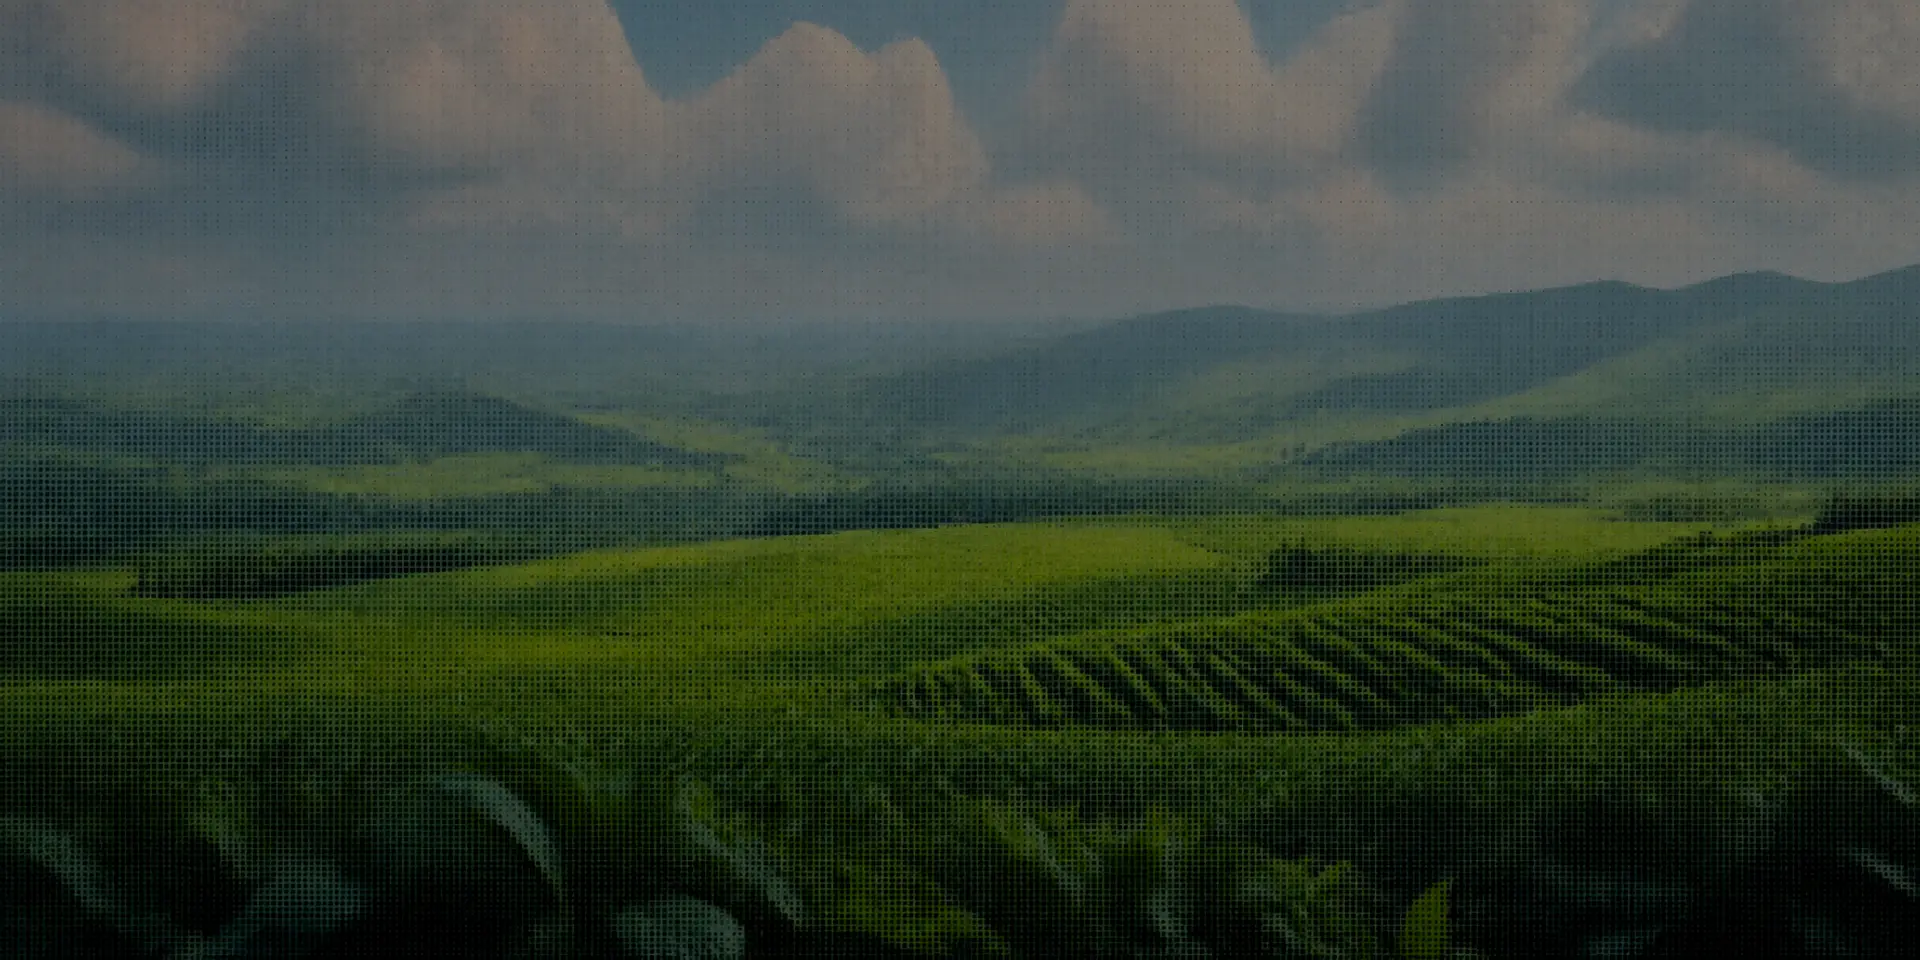
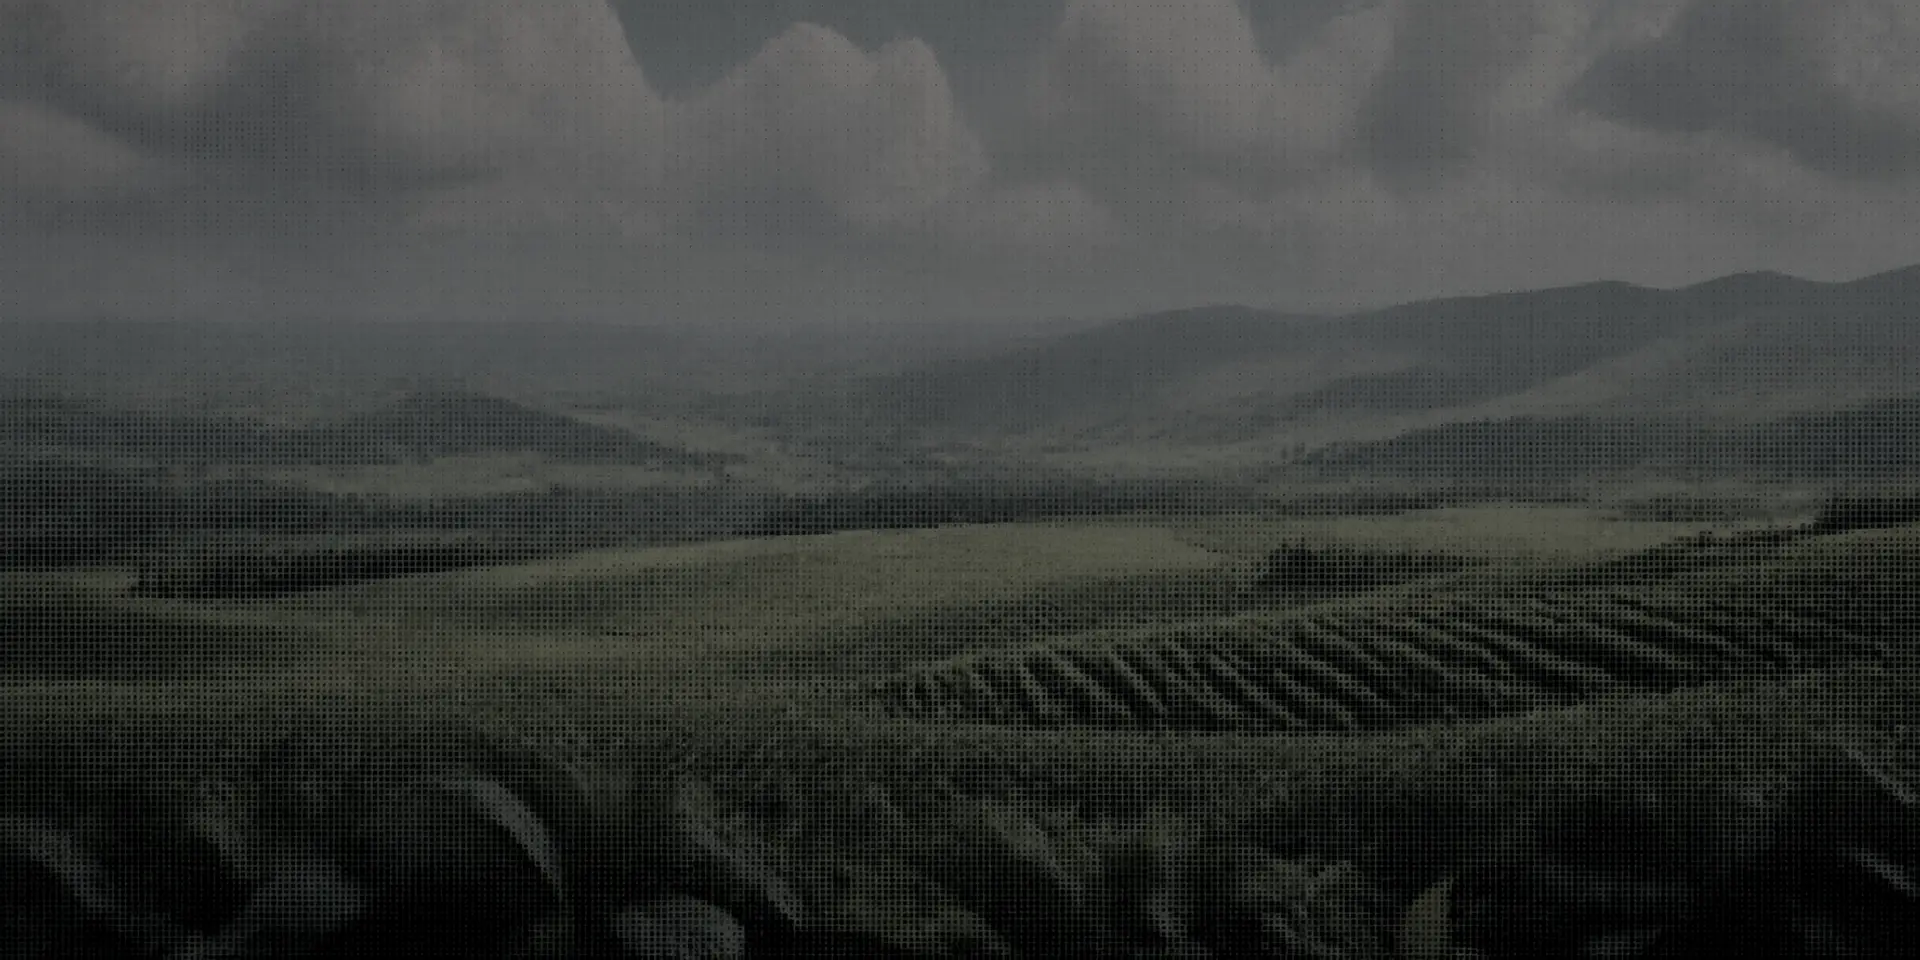
Darker, lower-contrast dApp with green as the accent
- Backdrop overlay drops from 0.82/0.88/0.95 to 0.62/0.72/0.86 and the
  landscape is desaturated to near-monochrome, so it reads as texture rather
  than as a picture.
- Adds an .app-scope layer: card surfaces move off green onto near-black and
  turn slightly translucent, so the backdrop shows through the interface.
- Green stops being a surface colour and becomes the accent — card hover,
  nav hover, active pills, sliders, and section headings.
- Every white-on-black pill in the dApp softens to a green-tinted one; body
  copy steps back a notch across the pages.

The marketing site keeps its original treatment; all of this is scoped.

diff --git a/components/dapp/CreatePodForm.tsx b/components/dapp/CreatePodForm.tsx
@@ -131,7 +131,7 @@ export function CreatePodForm() {
                   onClick={() => switchMode(id)}
                   className={`rounded-full px-5 py-2.5 text-sm font-bold transition-colors ${
                     mode === id
-                      ? "bg-white text-[#040703]"
+                      ? "app-nav-active"
                       : "border-line border text-white/45 hover:text-white"
                   }`}
                 >
@@ -203,7 +203,7 @@ export function CreatePodForm() {
                         onChange={(e) =>
                           setWeights((w) => ({ ...w, [c.symbol]: Number(e.target.value) }))
                         }
-                        className="flex-1 accent-white"
+                        className="accent-lime flex-1"
                       />
                       <span className="tnum w-12 shrink-0 text-right text-xs font-extrabold">
                         {c.pct.toFixed(1)}%
@@ -230,7 +230,7 @@ export function CreatePodForm() {
                         onClick={() => setRebalance(r)}
                         className={`rounded-full px-3.5 py-2 text-xs font-bold transition-colors ${
                           rebalance === r
-                            ? "bg-white text-[#040703]"
+                            ? "app-nav-active"
                             : "border-line border text-white/45 hover:text-white"
                         }`}
                       >
@@ -253,7 +253,7 @@ export function CreatePodForm() {
                   key={p}
                   className={`rounded-full px-4 py-2.5 text-sm font-bold transition-colors ${
                     p === "USDG"
-                      ? "bg-white text-[#040703]"
+                      ? "app-nav-active"
                       : "border-line border text-white/45 hover:text-white"
                   }`}
                 >
@@ -272,7 +272,7 @@ export function CreatePodForm() {
                 step={0.05}
                 value={wrapFee}
                 onChange={(e) => setWrapFee(Number(e.target.value))}
-                className="w-full accent-white"
+                className="accent-lime w-full"
               />
             </Field>
             <Field label={`Unwrap fee — ${unwrapFee.toFixed(2)}%`}>
@@ -283,7 +283,7 @@ export function CreatePodForm() {
                 step={0.05}
                 value={unwrapFee}
                 onChange={(e) => setUnwrapFee(Number(e.target.value))}
-                className="w-full accent-white"
+                className="accent-lime w-full"
               />
             </Field>
             <Field label={`AMM fee — ${ammFee.toFixed(2)}%`}>
@@ -294,7 +294,7 @@ export function CreatePodForm() {
                 step={0.05}
                 value={ammFee}
                 onChange={(e) => setAmmFee(Number(e.target.value))}
-                className="w-full accent-white"
+                className="accent-lime w-full"
               />
             </Field>
             <Field label={`Burn share — ${burnShare}%`}>
@@ -305,7 +305,7 @@ export function CreatePodForm() {
                 step={5}
                 value={burnShare}
                 onChange={(e) => setBurnShare(Number(e.target.value))}
-                className="w-full accent-white"
+                className="accent-lime w-full"
               />
             </Field>
           </div>
@@ -341,7 +341,7 @@ export function CreatePodForm() {
               value={gapPremium}
               disabled={!closes}
               onChange={(e) => setGapPremium(Number(e.target.value))}
-              className="mt-4 w-full accent-white disabled:opacity-30"
+              className="accent-lime mt-4 w-full disabled:opacity-30"
             />
           </div>
 

diff --git a/components/dapp/AppShell.tsx b/components/dapp/AppShell.tsx
@@ -45,8 +45,8 @@ export function AppShell({ children }: { children: ReactNode }) {
     href === "/app" ? pathname === "/app" : pathname.startsWith(href);
 
   return (
-    <div className="flex min-h-svh flex-col">
-      <header className="border-line/70 sticky top-0 z-50 border-b bg-[#040703]/70 backdrop-blur-xl">
+    <div className="app-scope flex min-h-svh flex-col">
+      <header className="border-line/70 sticky top-0 z-50 border-b bg-[#040703]/55 backdrop-blur-xl">
         <div className="mx-auto flex h-16 max-w-[1400px] items-center justify-between gap-4 px-5 sm:px-8">
           <div className="flex items-center gap-7">
             <Link href="/" aria-label="Back to the site">
@@ -59,8 +59,8 @@ export function AppShell({ children }: { children: ReactNode }) {
                   href={n.href}
                   className={`flex items-center gap-2 rounded-full px-3.5 py-2 text-sm font-semibold transition-colors ${
                     isActive(n.href)
-                      ? "bg-white text-[#040703]"
-                      : "text-white/55 hover:bg-[#12290d] hover:text-white"
+                      ? "app-nav-active"
+                      : "hover:text-lime text-white/45 hover:bg-[#12290d]/60"
                   }`}
                 >
                   <NavIcon name={n.icon} />
@@ -71,8 +71,8 @@ export function AppShell({ children }: { children: ReactNode }) {
           </div>
 
           <div className="flex items-center gap-2.5">
-            <span className="border-line hidden items-center gap-2 rounded-full border px-3.5 py-2 text-xs font-semibold text-white/60 lg:inline-flex">
-              <span className="bg-lime h-1.5 w-1.5 rounded-full" />
+            <span className="border-line/70 hidden items-center gap-2 rounded-full border px-3.5 py-2 text-xs font-semibold text-white/40 lg:inline-flex">
+              <span className="bg-lime/70 h-1.5 w-1.5 rounded-full" />
               Robinhood Chain
             </span>
             <button
@@ -110,7 +110,7 @@ export function AppShell({ children }: { children: ReactNode }) {
                 href={n.href}
                 onClick={() => setMenu(false)}
                 className={`flex items-center gap-2 rounded-xl px-4 py-3 text-sm font-semibold ${
-                  isActive(n.href) ? "bg-white text-[#040703]" : "text-white/70 hover:bg-[#12290d]"
+                  isActive(n.href) ? "app-nav-active" : "hover:text-lime text-white/55"
                 }`}
               >
                 <NavIcon name={n.icon} />

diff --git a/components/dapp/PodsExplorer.tsx b/components/dapp/PodsExplorer.tsx
@@ -57,7 +57,7 @@ export function PodsExplorer() {
                     key={f.id}
                     onClick={() => setCat(f.id)}
                     className={`rounded-full px-3.5 py-1.5 text-xs font-bold transition-colors ${
-                      cat === f.id ? "bg-white text-[#040703]" : "text-white/50 hover:text-white"
+                      cat === f.id ? "app-nav-active" : "hover:text-lime text-white/40"
                     }`}
                   >
                     {f.label}
@@ -70,7 +70,7 @@ export function PodsExplorer() {
                   onClick={() => setView("grid")}
                   aria-label="Grid view"
                   className={`rounded-full px-2.5 py-1.5 transition-colors ${
-                    view === "grid" ? "bg-white text-[#040703]" : "text-white/40"
+                    view === "grid" ? "app-nav-active" : "hover:text-lime text-white/35"
                   }`}
                 >
                   <svg width="13" height="13" viewBox="0 0 14 14" fill="currentColor" aria-hidden="true">
@@ -84,7 +84,7 @@ export function PodsExplorer() {
                   onClick={() => setView("table")}
                   aria-label="Table view"
                   className={`rounded-full px-2.5 py-1.5 transition-colors ${
-                    view === "table" ? "bg-white text-[#040703]" : "text-white/40"
+                    view === "table" ? "app-nav-active" : "hover:text-lime text-white/35"
                   }`}
                 >
                   <svg width="13" height="13" viewBox="0 0 14 14" fill="currentColor" aria-hidden="true">
@@ -120,8 +120,8 @@ export function PodsExplorer() {
                 </div>
 
                 <h3 className="mt-6 text-2xl font-extrabold tracking-[-0.02em]">{pod.ticker}</h3>
-                <p className="mt-1 text-sm font-semibold text-white/40">{pod.company}</p>
-                <p className="mt-4 flex-1 text-sm leading-relaxed text-white/55">{pod.line}</p>
+                <p className="mt-1 text-sm font-semibold text-white/35">{pod.company}</p>
+                <p className="mt-4 flex-1 text-sm leading-relaxed text-white/45">{pod.line}</p>
 
                 <div className="border-line/70 mt-6 grid grid-cols-3 gap-3 border-t pt-4">
                   {["LVF APY", "Pod TVL", "CBR"].map((l) => (

diff --git a/components/dapp/bits.tsx b/components/dapp/bits.tsx
@@ -14,7 +14,7 @@ export function PageHead({
     <div className="flex flex-col gap-5 lg:flex-row lg:items-end lg:justify-between">
       <div className="max-w-2xl">
         <h1 className="text-3xl font-extrabold tracking-[-0.03em] sm:text-4xl">{title}</h1>
-        <p className="mt-3 text-base leading-relaxed text-white/55">{intro}</p>
+        <p className="mt-3 text-base leading-relaxed text-white/45">{intro}</p>
       </div>
       {action ? <div className="shrink-0">{action}</div> : null}
     </div>
@@ -46,10 +46,10 @@ export function Row({
   tone?: "plain" | "good" | "warn";
 }) {
   const cls =
-    tone === "good" ? "text-lime" : tone === "warn" ? "text-[#e0a23b]" : "text-white";
+    tone === "good" ? "text-lime" : tone === "warn" ? "text-[#e0a23b]" : "text-white/85";
   return (
     <div className="flex items-center justify-between py-2 text-sm">
-      <span className="text-white/50">{label}</span>
+      <span className="text-white/40">{label}</span>
       <span className={`tnum font-bold ${cls}`}>{value}</span>
     </div>
   );
@@ -85,7 +85,7 @@ export function EmptyState({
   return (
     <div className="border-line dot-field rounded-2xl border border-dashed px-8 py-20 text-center">
       <p className="text-xl font-extrabold">{title}</p>
-      <p className="mx-auto mt-3 max-w-md text-sm leading-relaxed text-white/50">{body}</p>
+      <p className="mx-auto mt-3 max-w-md text-sm leading-relaxed text-white/40">{body}</p>
       {action ? <div className="mt-7 flex justify-center">{action}</div> : null}
     </div>
   );

diff --git a/app/globals.css b/app/globals.css
@@ -190,4 +190,56 @@
   .tnum {
     font-variant-numeric: tabular-nums;
   }
+
+  /* ---------------------------------------------------------------
+     dApp scope: surfaces drop to near-black and the contrast comes
+     down. Green stops being the surface colour and becomes the thing
+     that appears on hover and on headings.
+  --------------------------------------------------------------- */
+  .app-scope .card-shell {
+    background: #1a1c19;
+  }
+  .app-scope .card-shell:hover {
+    background: #2c5c22;
+    box-shadow: 0 26px 54px -34px rgba(127, 227, 57, 0.28);
+  }
+  .app-scope .card-inner {
+    background: linear-gradient(140deg, rgba(9, 11, 8, 0.92) 0%, rgba(15, 18, 14, 0.92) 100%);
+  }
+  .app-scope .card-flat {
+    background: rgba(9, 11, 8, 0.9);
+  }
+  .app-scope .chip {
+    background: rgba(127, 227, 57, 0.07);
+    border-color: rgba(127, 227, 57, 0.16);
+    color: #b9cfae;
+  }
+
+  /* headings pick up the green, body text steps back */
+  .app-scope h1 {
+    color: #ebefe9;
+  }
+  .app-scope h2,
+  .app-scope h3 {
+    color: #b9cfae;
+  }
+
+  .app-scope .btn-light {
+    background: #cfe3c2;
+    color: #0a0f08;
+  }
+  .app-scope .btn-light:hover {
+    background: #7fe339;
+    box-shadow: 0 14px 34px -16px rgba(127, 227, 57, 0.5);
+  }
+
+  /* the active pill in the nav, softened from white to deep green */
+  .app-nav-active {
+    background: rgba(127, 227, 57, 0.14);
+    color: #cfe3c2;
+  }
+
+  .app-scope input[type="range"] {
+    accent-color: #7fe339;
+  }
 }

diff --git a/components/dapp/PodPanel.tsx b/components/dapp/PodPanel.tsx
@@ -34,7 +34,7 @@ export function PodPanel({ pod }: { pod: Pod }) {
                 setAmount("");
               }}
               className={`flex-1 rounded-full px-4 py-2.5 text-sm font-bold transition-colors ${
-                tab === id ? "bg-white text-[#040703]" : "text-white/50 hover:text-white"
+                tab === id ? "app-nav-active" : "text-white/50 hover:text-white"
               }`}
             >
               {label}
@@ -63,7 +63,7 @@ export function PodPanel({ pod }: { pod: Pod }) {
                 step={0.1}
                 value={leverage}
                 onChange={(e) => setLeverage(Number(e.target.value))}
-                className="mt-3 w-full accent-white"
+                className="accent-lime mt-3 w-full"
               />
               <div className="text-sage/40 mt-1 flex justify-between text-[10px] font-semibold">
                 <span>1×</span>

diff --git a/components/dapp/SwapPanel.tsx b/components/dapp/SwapPanel.tsx
@@ -77,7 +77,7 @@ export function SwapPanel() {
               key={d.id}
               onClick={() => setDest(d.id)}
               className={`rounded-full px-2 py-2.5 text-[11px] font-bold transition-colors ${
-                dest === d.id ? "bg-white text-[#040703]" : "text-white/50 hover:text-white"
+                dest === d.id ? "app-nav-active" : "text-white/50 hover:text-white"
               }`}
             >
               {d.label}
@@ -114,7 +114,7 @@ export function SwapPanel() {
               onClick={() => setFrom(i)}
               className={`flex-1 rounded-full px-2 py-2 text-xs font-bold transition-colors ${
                 from === i
-                  ? "bg-white text-[#040703]"
+                  ? "app-nav-active"
                   : "border-line border text-white/50 hover:text-white"
               }`}
             >

diff --git a/components/visual/DappBackground.tsx b/components/visual/DappBackground.tsx
@@ -41,12 +41,13 @@ export function DappBackground() {
         </div>
       ))}
 
-      {/* darkening pass so the interface always has contrast */}
+      {/* darkening pass so the interface always has contrast, kept light enough
+          that the landscape still reads through it */}
       <div
         className="absolute inset-0"
         style={{
           background:
-            "linear-gradient(180deg, rgba(4,7,3,0.82) 0%, rgba(4,7,3,0.88) 42%, rgba(4,7,3,0.95) 100%)",
+            "linear-gradient(180deg, rgba(4,7,3,0.62) 0%, rgba(4,7,3,0.72) 42%, rgba(4,7,3,0.86) 100%)",
         }}
       />
 
